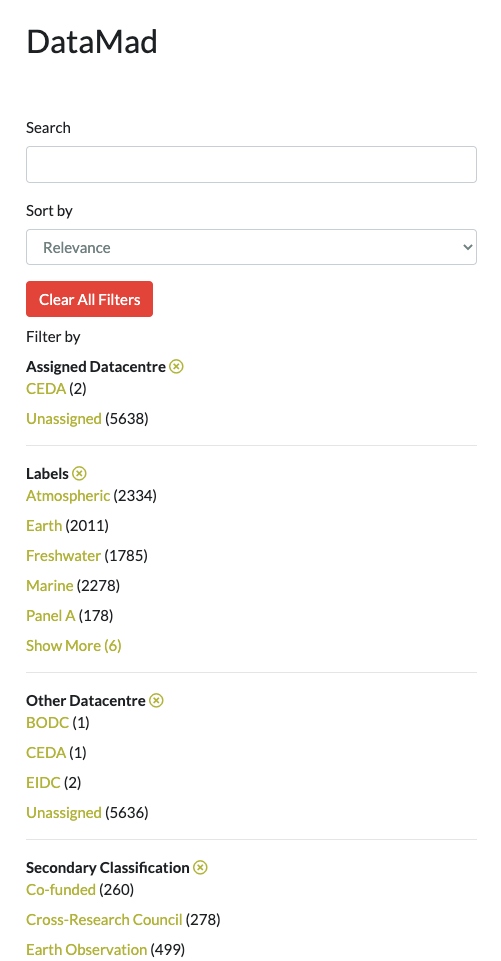
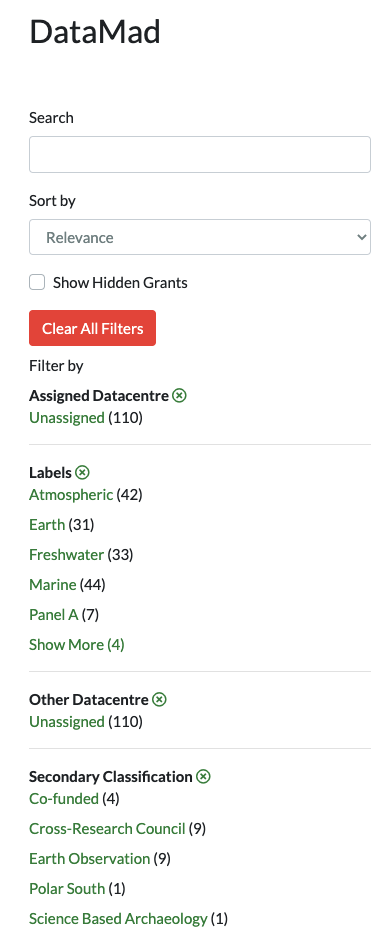
Updating docs

diff --git a/docs/_includes/navigation.html b/docs/_includes/navigation.html
@@ -1,12 +1,12 @@
 <nav class="nav flex-column">
     {% for item in site.data.navigation.navigation %}
-    <a class="nav-link {% if page.url == item.url %}active{% endif %}" href="{{ item.url }}">
-       {{ item.name }}
-    </a>
+        <a class="nav-link {% if page.url == item.url %}active{% endif %}" href="{{ item.url }}">
+            {{ item.name }}
+        </a>
         {% for sublink in item.sublinks %}
-                <a class="nav-link ml-4 {% if page.url == sublink.url %}active{% endif %}" href="{{ sublink.url }}">
-       {{ sublink.name }}
-    </a>
-            {% endfor %}
+            <a class="nav-link ml-4 {% if page.url == sublink.url %}active{% endif %}" href="{{ sublink.url }}">
+                {{ sublink.name }}
+            </a>
+        {% endfor %}
     {% endfor %}
 </nav>

diff --git a/docs/tutorial.md b/docs/tutorial.md
@@ -40,7 +40,23 @@ Full grant references can be searched to return exact grants.
 
 Remaining terms will be `AND`ed together.
 
+#### {% include linked_header.html title="Hidden Grants" %}
 
+By default all unfunded grants are hidden from the search results. Unfunded grants
+are defined as any grant which has a grant type from any of the following:
+
+- Strategy & Partnerships (KE)
+- Public Engagement Grants
+- NERC Strategic Capital Grants
+
+This default behaviour can be manually overridden by toggling the <i class="far fa-eye text-success"></i>/<i class="far fa-eye-slash text-success"></i>
+icon. 
+
+You can view hidden grants by ticking the box above the "Clear All Filters" button.
+
+![Search Form](/assets/images/tutorial/search_form.png){:.border}
+
+They will then show up in the results as normal.
 
 ### {% include linked_header.html title="Grant Documents" %}
 

diff --git a/README.md b/README.md
@@ -1,1 +1,14 @@
-# datamad2
+# DataMAD2
+
+[User documentation](https://cedadev.github.io/datamad2/)
+
+## Editing docs
+
+The documentation is written using Jekyll. A usefull getting started guide
+can be found [here](https://jekyllrb.com/docs/step-by-step/01-setup/)
+
+Once you have the pre-requisites installed, navigate to the docs directory and run:
+
+`bundle exec jekyll serve`
+
+This will serve the docs locally and will update as you change the source.

diff --git a/docs/admin_users.md b/docs/admin_users.md
@@ -26,7 +26,7 @@ by the name of your datacentre.
 
 Each user is listed with their email address and admin status. There is also the option to edit or remove the users.
 
-#### Adding a new user
+#### {% include linked_header.html title="Adding a new user" %}
 
 New users accounts are given a randomly generated password. New users should follow the
 forgotten password link when they sign in for the first time to set a password.
